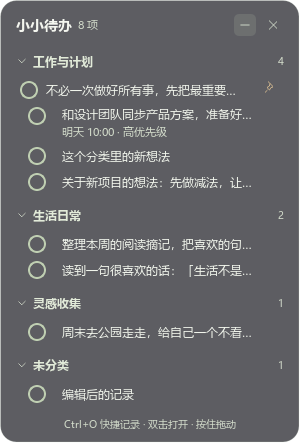
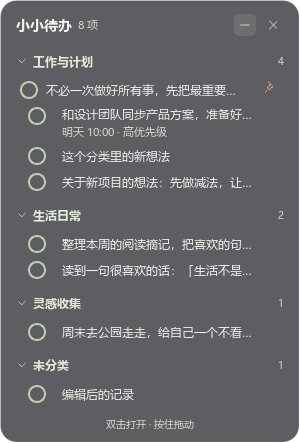
fix(ui): simplify desktop todo footer and rename repository links to lumo-notes

Changed region(s): [[0.21, 0.9391, 0.81, 0.9684]]

diff --git a/src/memo_app/widget.py b/src/memo_app/widget.py
@@ -221,7 +221,7 @@ class TodoWidget(QWidget):
         self.more_label.setAttribute(Qt.WidgetAttribute.WA_TransparentForMouseEvents, True)
         root.addWidget(self.more_label)
 
-        self.hint_label = QLabel("Ctrl+O 快捷记录 · 双击打开 · 按住拖动")
+        self.hint_label = QLabel("双击打开 · 按住拖动")
         self.hint_label.setObjectName("widgetHint")
         self.hint_label.setAlignment(Qt.AlignmentFlag.AlignCenter)
         self.hint_label.setAttribute(Qt.WidgetAttribute.WA_TransparentForMouseEvents, True)

diff --git a/README.md b/README.md
@@ -4,7 +4,7 @@
 
 **Lumo is a Windows memo and notes app with desktop sticky notes, to-do lists, reminders, global quick capture, and optional encrypted WebDAV sync.**
 
-[下载 Windows 版](https://github.com/pillowAIQ/lumo-memo-notes/releases/latest) · [同步使用指南](docs/jianguoyun-sync-user-guide.md) · [开发与打包](docs/packaging.md)
+[下载 Windows 版](https://github.com/pillowAIQ/lumo-notes/releases/latest) · [同步使用指南](docs/jianguoyun-sync-user-guide.md) · [开发与打包](docs/packaging.md)
 
 ![轻笺 Lumo 备忘录主界面：松绿主题、分类侧栏、笔记卡片与待办提醒](docs/images/main-pine.png)
 
@@ -46,7 +46,7 @@
 
 ## 下载与开始使用
 
-1. 前往 [GitHub Releases](https://github.com/pillowAIQ/lumo-memo-notes/releases/latest)，下载 Windows 分发 ZIP（当前发布文件为 `Lumo-0.2.0-windows-x64.zip`）。
+1. 前往 [GitHub Releases](https://github.com/pillowAIQ/lumo-notes/releases/latest)，下载 Windows 分发 ZIP（当前发布文件为 `Lumo-0.2.0-windows-x64.zip`）。
 2. **完整解压**压缩包，保留 `Lumo` 文件夹中的全部文件。
 3. 运行 `Lumo/Lumo.exe`，输入第一条备忘录，按 Enter 保存。
 
@@ -83,8 +83,8 @@ Windows 分发包自带运行环境，无需另装 Python。不要只复制 `Lum
 使用 Python 3.11 建立虚拟环境。在 Windows PowerShell 中执行：
 
 ```powershell
-git clone https://github.com/pillowAIQ/lumo-memo-notes.git
-cd lumo-memo-notes
+git clone https://github.com/pillowAIQ/lumo-notes.git
+cd lumo-notes
 py -3.11 -m venv .venv
 .venv/Scripts/python.exe -m pip install -e .
 .venv/Scripts/python.exe -m memo_app
@@ -126,6 +126,6 @@ src/memo_app/
 └── sync/                  # WebDAV、加密与同步引擎
 ```
 
-界面设计过程见 [界面升级说明](docs/research/ui-redesign.md)。欢迎通过 [Issues](https://github.com/pillowAIQ/lumo-memo-notes/issues) 反馈问题；请附 Windows 版本、应用版本和复现步骤，截图时遮挡个人笔记与同步账号。
+界面设计过程见 [界面升级说明](docs/research/ui-redesign.md)。欢迎通过 [Issues](https://github.com/pillowAIQ/lumo-notes/issues) 反馈问题；请附 Windows 版本、应用版本和复现步骤，截图时遮挡个人笔记与同步账号。
 
 关键词：备忘录、便签、桌面便签、桌面备忘录、随手记、笔记软件、待办清单、待办事项、提醒、坚果云同步；memo, notes, sticky notes, to-do list, reminders, Windows, PySide6, SQLite, WebDAV。
